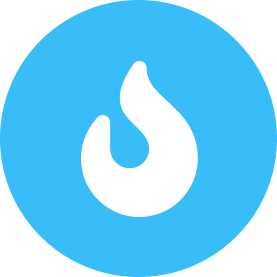
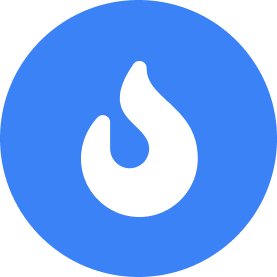
color change

diff --git a/src/app/components/common/logo.tsx b/src/app/components/common/logo.tsx
@@ -7,7 +7,7 @@ interface Properties {
 export default function Logo({ width, height, ...rest }: Properties) {
     return (
         <svg width={width ?? 1426} height={height ?? 277} viewBox="0 0 1426 277" fill="none" xmlns="http://www.w3.org/2000/svg" {...rest}>
-            <path d="M277 138.5C277 214.991 214.991 277 138.5 277C62.0086 277 0 214.991 0 138.5C0 62.0086 62.0086 0 138.5 0C214.991 0 277 62.0086 277 138.5Z" fill="#38BDF8"/>
+            <path d="M277 138.5C277 214.991 214.991 277 138.5 277C62.0086 277 0 214.991 0 138.5C0 62.0086 62.0086 0 138.5 0C214.991 0 277 62.0086 277 138.5Z" fill="#3B82F6"/>
             <path d="M146.667 68.2818C146.667 61.0302 137.334 58.288 133.23 64.3209C95.5927 119.469 149.099 121.937 149.099 148.75C149.099 159.597 140.253 168.402 129.369 168.25C118.667 168.097 110.155 159.17 110.155 148.476V122.425C110.155 115.813 102.099 112.614 97.5688 117.397C89.4516 125.959 81 140.615 81 158.5C81 190.766 107.176 217 139.371 217C171.566 217 197.742 190.766 197.742 158.5C197.742 106.611 146.667 99.6951 146.667 68.2818Z" fill="white"/>
             <path d="M421.14 206.3C415.007 206.3 409.103 205.533 403.43 204C397.757 202.313 392.543 200.013 387.79 197.1C383.037 194.033 378.897 190.353 375.37 186.06L391.47 169.96C395.303 174.407 399.673 177.78 404.58 180.08C409.64 182.227 415.313 183.3 421.6 183.3C427.273 183.3 431.567 182.457 434.48 180.77C437.393 179.083 438.85 176.63 438.85 173.41C438.85 170.037 437.47 167.43 434.71 165.59C431.95 163.75 428.347 162.217 423.9 160.99C419.607 159.61 415.007 158.23 410.1 156.85C405.347 155.47 400.747 153.63 396.3 151.33C392.007 148.877 388.48 145.58 385.72 141.44C382.96 137.3 381.58 131.933 381.58 125.34C381.58 118.287 383.19 112.23 386.41 107.17C389.783 102.11 394.46 98.2 400.44 95.44C406.573 92.68 413.857 91.3 422.29 91.3C431.183 91.3 439.003 92.91 445.75 96.13C452.65 99.1967 458.4 103.873 463 110.16L446.9 126.26C443.68 122.273 440 119.283 435.86 117.29C431.72 115.297 426.967 114.3 421.6 114.3C416.54 114.3 412.63 115.067 409.87 116.6C407.11 118.133 405.73 120.357 405.73 123.27C405.73 126.337 407.11 128.713 409.87 130.4C412.63 132.087 416.157 133.543 420.45 134.77C424.897 135.997 429.497 137.377 434.25 138.91C439.157 140.29 443.757 142.283 448.05 144.89C452.497 147.343 456.1 150.717 458.86 155.01C461.62 159.15 463 164.593 463 171.34C463 182.073 459.243 190.583 451.73 196.87C444.217 203.157 434.02 206.3 421.14 206.3Z" fill="#1E293B"/>
             <path d="M559.528 204V140.29C559.528 132.93 557.151 126.873 552.398 122.12C547.798 117.367 541.818 114.99 534.458 114.99C529.551 114.99 525.181 116.063 521.348 118.21C517.515 120.357 514.525 123.347 512.378 127.18C510.231 131.013 509.158 135.383 509.158 140.29L499.268 134.77C499.268 126.337 501.108 118.9 504.788 112.46C508.468 105.867 513.528 100.73 519.968 97.05C526.561 93.2167 533.921 91.3 542.048 91.3C550.328 91.3 557.688 93.14 564.128 96.82C570.568 100.5 575.628 105.637 579.308 112.23C582.988 118.67 584.828 126.183 584.828 134.77V204H559.528ZM483.858 204V38.4H509.158V204H483.858Z" fill="#1E293B"/>

diff --git a/src/app/page.tsx b/src/app/page.tsx
@@ -18,7 +18,7 @@ export default function Home() {
     let headingRef = useRef<HTMLHeadingElement>(null);
     
     let [heading, setHeading] = useState<React.JSX.Element|null>(<h1 className="text-6xl font-semibold duration-150 pointer-events-none select-none max-[800px]:text-5xl max-[800px]:px-4" ref={headingRef}>Drop Files onto this Page</h1>);
-    let [subheading, setSubheading] = useState<React.JSX.Element|null>(<h2 className="text-xl font-semibold my-8 pointer-events-none select-none max-[800px]:text-base max-[800px]:px-4">Share is a no-frills file sharing service designed to be as convenient as possible</h2>);
+    let [subheading, setSubheading] = useState<React.JSX.Element|null>(<h2 className="text-xl text-slate-400/60 font-medium my-8 pointer-events-none select-none max-[800px]:text-base max-[800px]:px-4">Share is a no-frills file sharing service designed to be as convenient as possible</h2>);
 
     let [buttonsAreVisible, setButtonsVisibility] = useState<boolean>(true);
     let [resetButtonIsVisible, setResetButtonVisibility] = useState<boolean>(false);
@@ -183,7 +183,7 @@ export default function Home() {
             }
 
             for (let record of records) {
-                list.push(<div className="w-[600px] px-1.5 py-1 mt-1 rounded-md flex justify-between items-center bg-slate-200 bg-opacity-50 dark:bg-zinc-700">
+                list.push(<div key={record.id} className="w-[600px] px-1.5 py-1 mt-1 rounded-md flex justify-between items-center bg-slate-200 bg-opacity-50 dark:bg-zinc-700">
                     <div>
                         <Link href={`/uploads/${record.id}`} target="_blank" className="text-slate-500 font-bold decoration-2 hover:underline dark:text-zinc-400">{record.id}</Link>
                         <div className="text-sm font-medium text-slate-400 dark:text-zinc-500">{new Date(record.id).toLocaleString("en-US", { month: "short", day: "numeric", year: "numeric", hour: "numeric", minute: "numeric" })} &middot; {record.files} Files &middot; {formatBytes(record.size)}</div>
@@ -227,7 +227,7 @@ export default function Home() {
                         <Button large={true} classes="max-[310px]:w-full" transparent={true} onClick={openHistory}><FontAwesomeIcon icon={faHistory} /> View Upload History</Button>
                     </div> : null}
                     {resetButtonIsVisible ? <Button large={true} onClick={reset}>Upload More</Button> : null}
-                    <div className="text-sm select-none font-semibold mt-8">2GB Upload Limit</div>
+                    <div className="text-sm text-slate-400/60 select-none font-semibold mt-8">2GB Upload Limit</div>
                 </motion.div>
                 <input type="file" ref={uploader} onInput={(e: any) => setFiles(e.target.files)} onChange={handleUpload} className="hidden" multiple />
             </main>

diff --git a/src/app/components/header.tsx b/src/app/components/header.tsx
@@ -17,7 +17,7 @@ export default function Header() {
                     <HeaderLink url="/about" text="About" />
                     <HeaderLink url="/support" text="Support" />
                     <HeaderLink url="/premium" text="Premium" />
-                    <Link href="/login" className="text-xl leading-none text-slate-400/60 duration-150 hover:text-slate-400 active:text-slate-500" draggable={false}><FontAwesomeIcon icon={faRightToBracket} /></Link>
+                    <Link href="/login" className="text-xl leading-none text-slate-400/60 duration-150 hover:text-slate-400 active:text-slate-500" title="Log In" draggable={false}><FontAwesomeIcon icon={faRightToBracket} /></Link>
                 </nav>
             </div>
         </header>
@@ -25,5 +25,5 @@ export default function Header() {
 }
 
 function HeaderLink({ url, text }: any) {
-    return <Link href={url} className="text-sm font-semibold leading-none duration-150 hover:text-slate-500 hover:dark:text-slate-300/80 max-[515px]:hidden" draggable={false}>{text}</Link>
+    return <Link href={url} className="text-sm font-medium leading-none duration-150 hover:text-slate-500 active:text-slate-400" draggable={false}>{text}</Link>
 }

diff --git a/src/app/components/common/button.tsx b/src/app/components/common/button.tsx
@@ -10,7 +10,7 @@ interface Properties {
 }
 
 export default function Button({ children, classes, url, transparent, large, ...rest }: Properties) {
-    let appearance = transparent ? "bg-transparent text-slate-400/60 font-semibold hover:bg-slate-100/60 hover:text-slate-400 dark:text-slate-400/75 hover:dark:bg-slate-800/60" : "bg-sky-400 text-white font-medium hover:bg-sky-500 active:bg-sky-600";
+    let appearance = transparent ? "bg-transparent text-slate-800 font-semibold hover:bg-slate-100/60 hover:text-slate-500 active:bg-slate-200 active:text-slate-500" : "bg-blue-500 text-white font-medium hover:bg-blue-600 active:bg-blue-700";
     let classList = `text-[0.813rem] ${large ? "py-2.5 px-5" : "py-2 px-4"} rounded-md select-none duration-150 ${appearance} ${classes?.length ? classes : ""}`;
 
     return (
